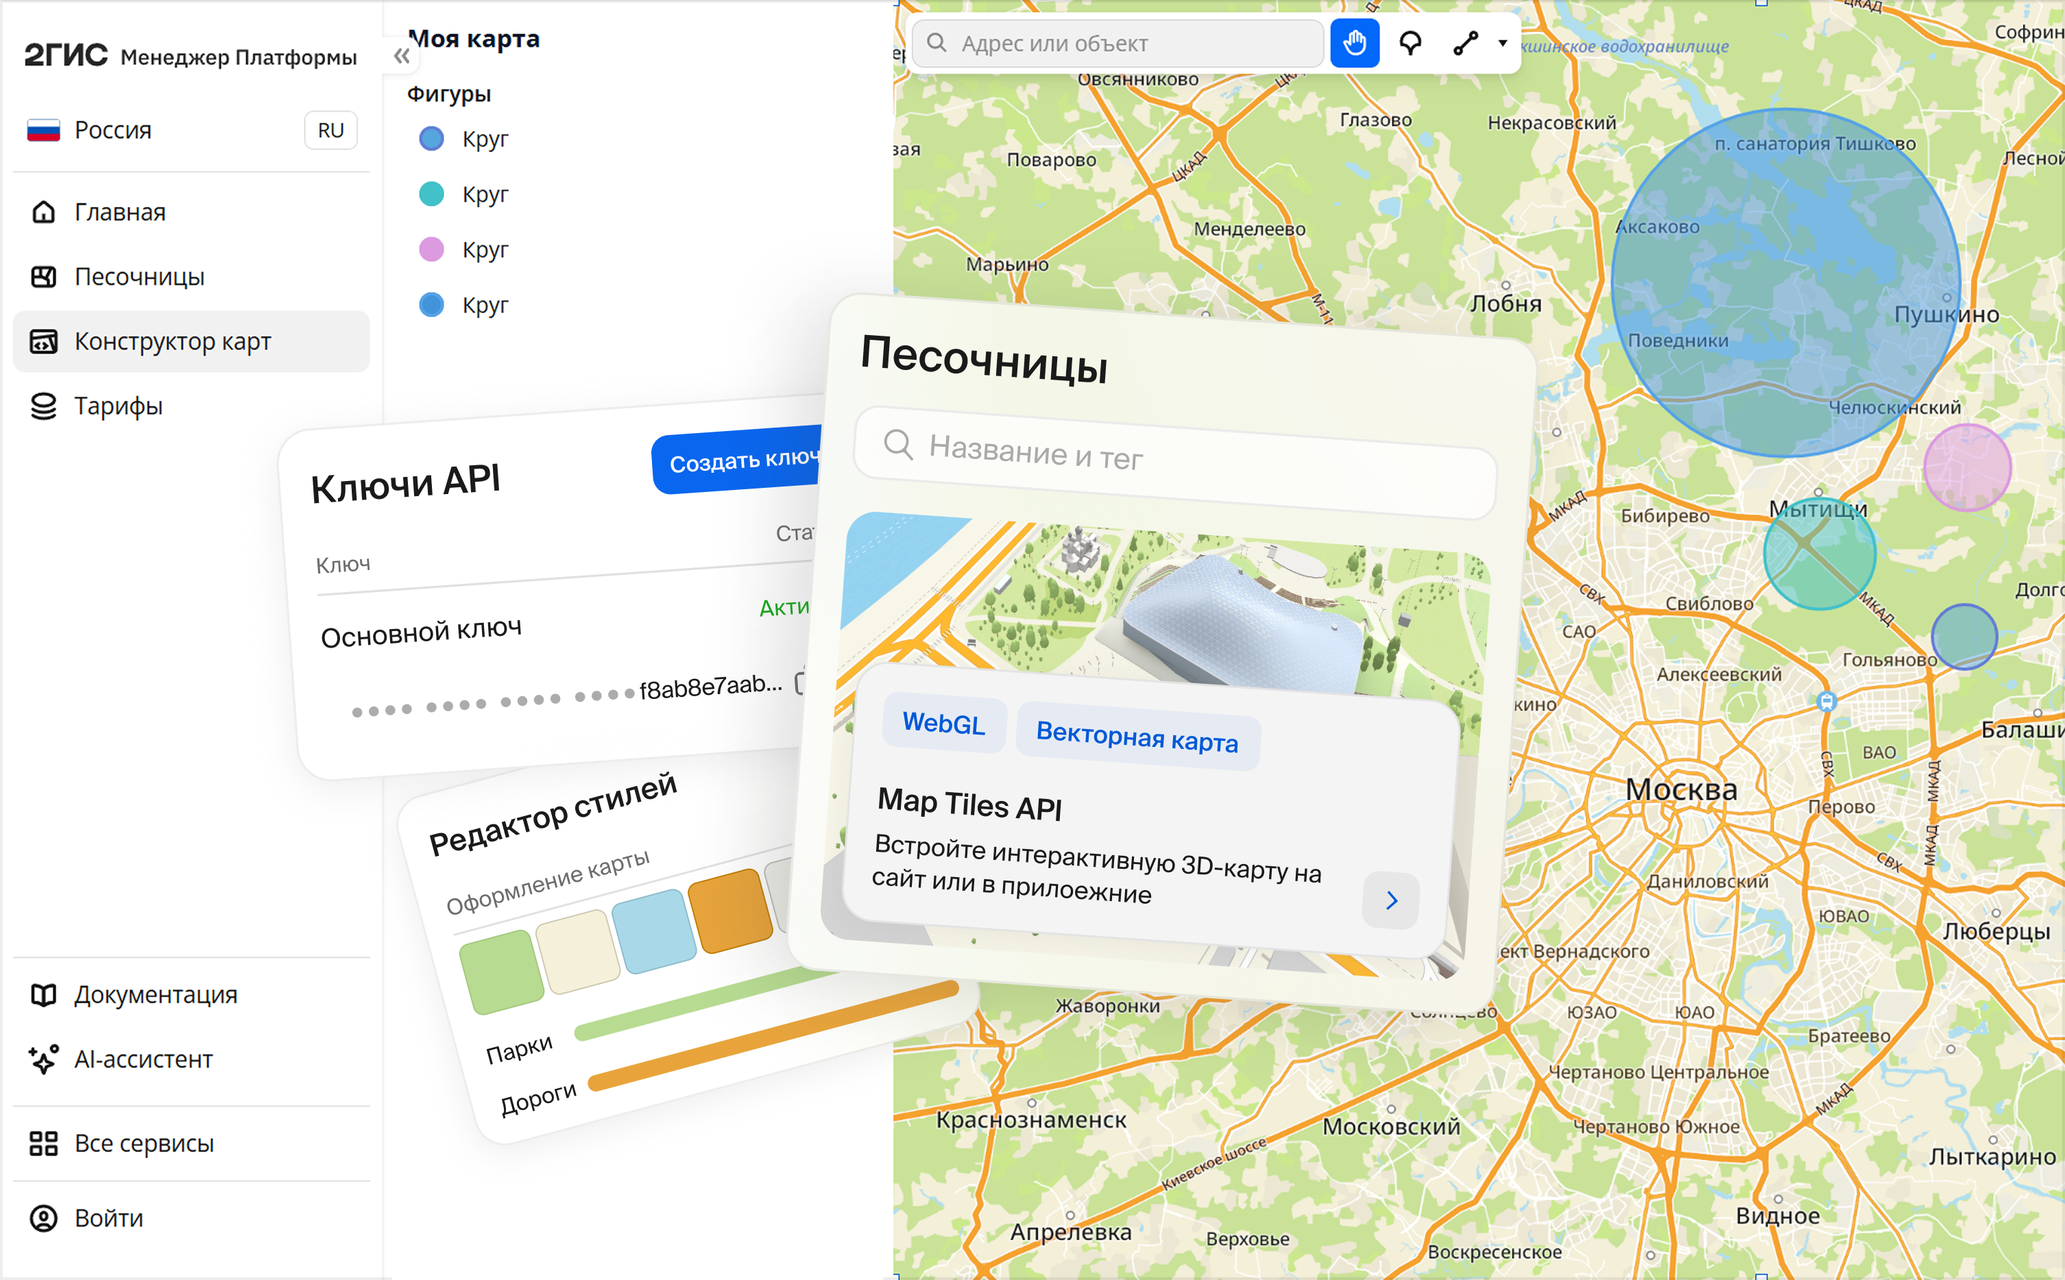
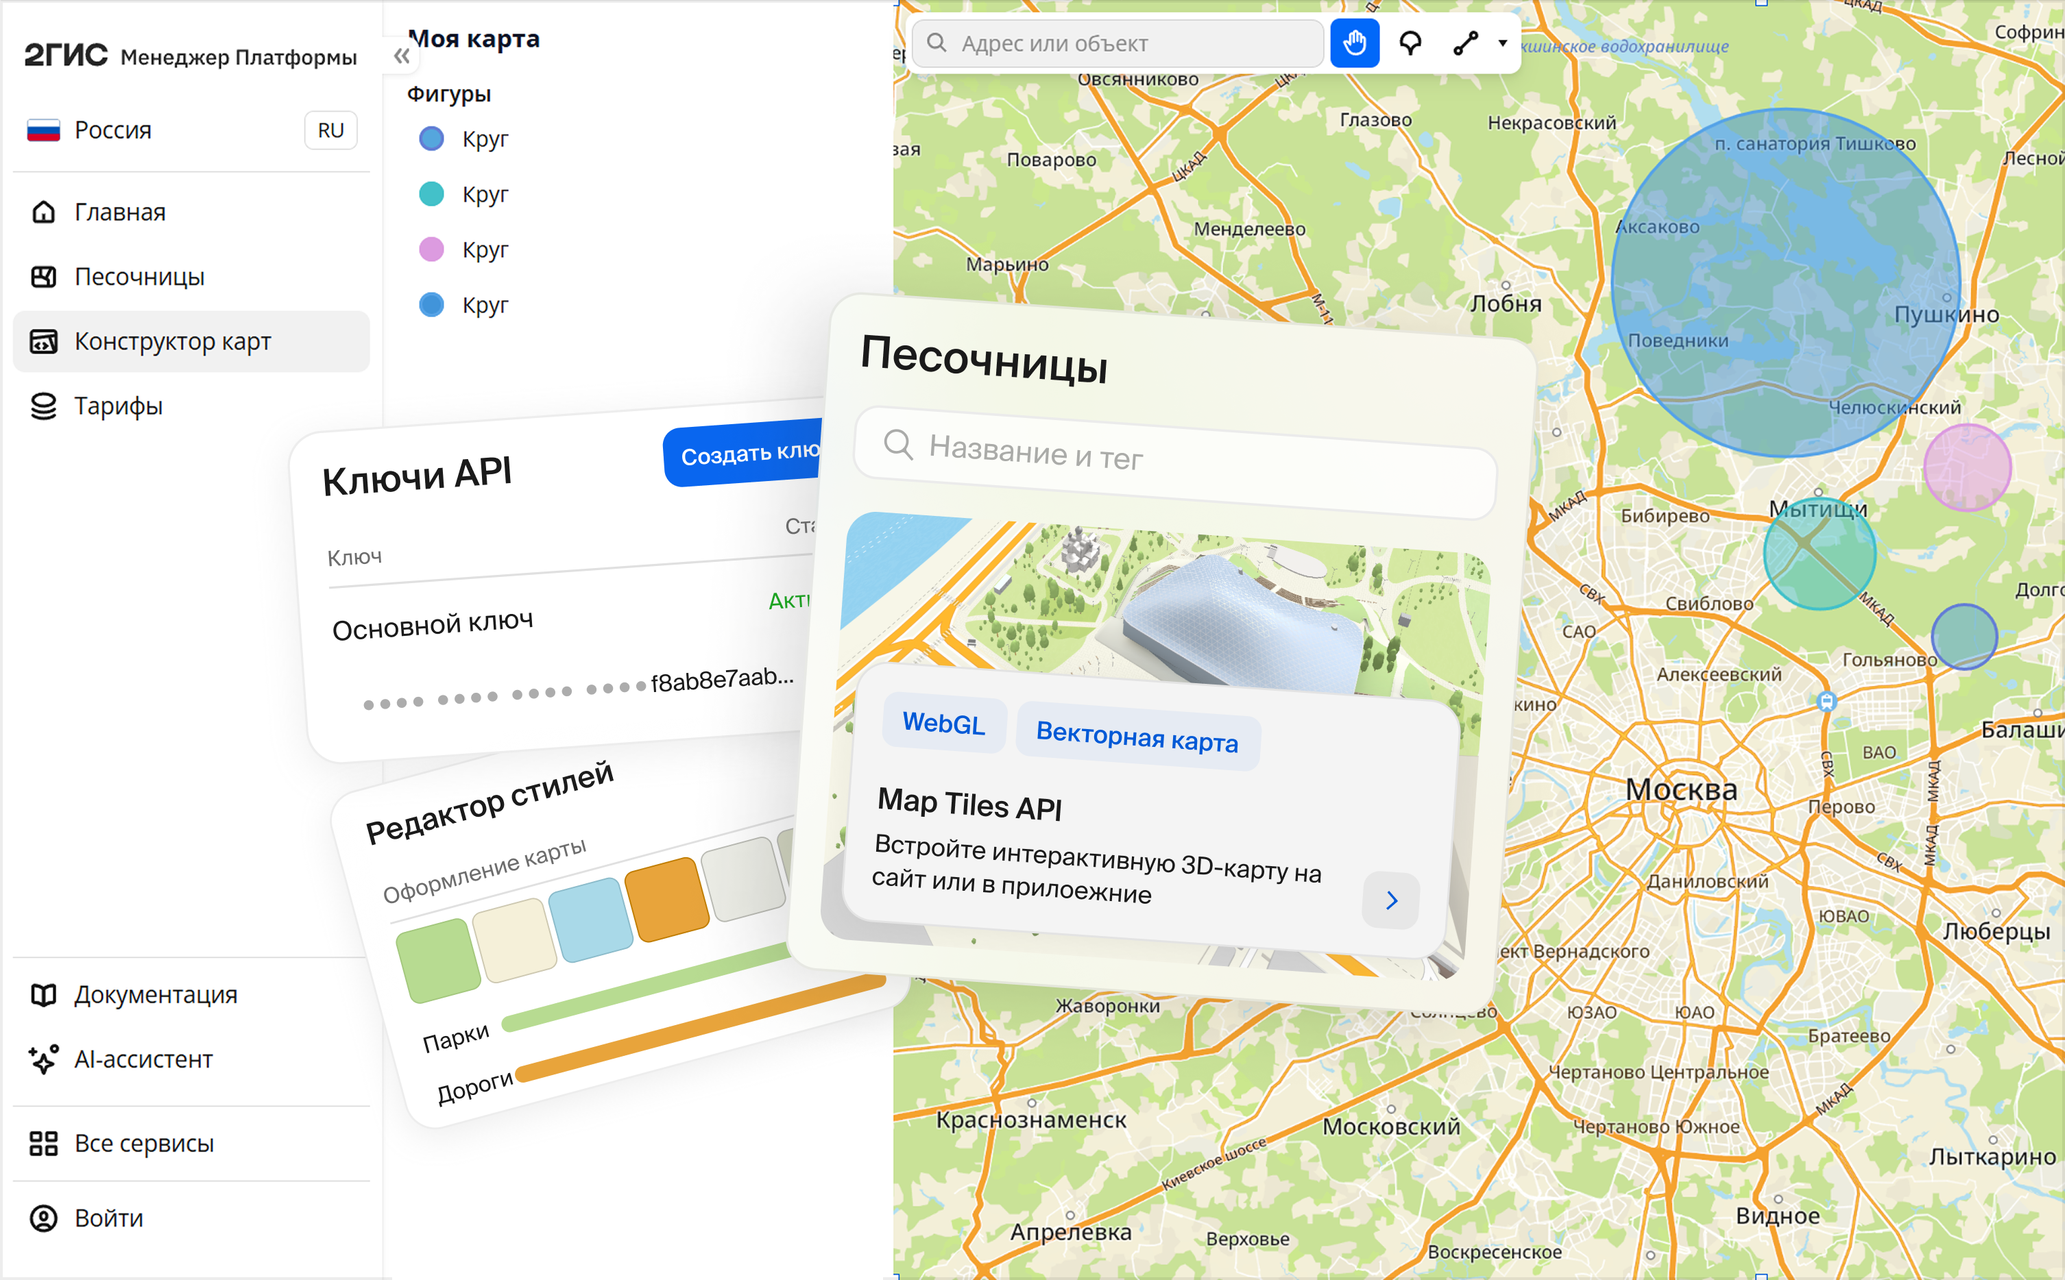
Update technical demonstration mobile layout and imagery

diff --git a/landing-prototype/content/map-constructor.ts b/landing-prototype/content/map-constructor.ts
@@ -72,13 +72,14 @@ export const intermediateCta: IntermediateCtaProps = {
 };
 
 export const technicalDemonstration: TechnicalDemonstrationProps = {
-  title: "Карты, ключи и стили в одном кабинете",
-  description: "В Менеджере Платформы 2ГИС собраны все инструменты: конструктор карт, редактор стилей, управление ключами и статистика.",
+  title: "Один кабинет для конструктора карт, стилей и API-ключей",
+  description: "В Менеджере Платформы 2ГИС собраны все инструменты: конструктор карт, редактор стилей, управление ключами и статистика",
   action: { label: "Получить демо-ключ", href: "https://platform.2gis.ru/" },
   variant: "framed",
   glowSrc: "/images/technical-demonstration/Glow (2).png",
   image: {
     desktop: "/images/technical-demonstration/API key_desktop.png",
+    mobile: "/images/technical-demonstration/API key_mobile.png",
     alt: "Менеджер Платформы с настройками ключей API, редактором стилей и картой",
   },
 };

diff --git a/landing-prototype/components/technical-demonstration/TechnicalDemonstration.tsx b/landing-prototype/components/technical-demonstration/TechnicalDemonstration.tsx
@@ -33,7 +33,7 @@ export function TechnicalDemonstration({
   const awaitingMobile = isFramed && Boolean(image) && !image?.mobile;
   const visual = image ? (
     <picture>
-      {image.mobile && <source media="(max-width: 699px)" srcSet={publicAsset(image.mobile)} />}
+      {image.mobile && <source media="(max-width: 699px)" srcSet={encodeURI(publicAsset(image.mobile))} />}
       <img src={publicAsset(image.desktop)} alt={image.alt} />
     </picture>
   ) : (

diff --git a/landing-prototype/components/technical-demonstration/TechnicalDemonstration.module.css b/landing-prototype/components/technical-demonstration/TechnicalDemonstration.module.css
@@ -179,7 +179,7 @@
   .emptyMedia { min-height: 240px; }
   .placeholder { min-height: 240px; }
   .showcase { aspect-ratio: 303 / 239; }
-  .framed { aspect-ratio: 343 / 325; }
+  .framed { aspect-ratio: 303 / 320; margin-top: 36px; }
   .glowingCard::before {
     background-size: 190% auto;
     background-position: center 68%;

diff --git a/specs/technical-demonstration-spec.md b/specs/technical-demonstration-spec.md
@@ -20,7 +20,9 @@
 | `glowSrc?: string` | Отдельное изображение свечения позади содержимого карточки в варианте `framed`. |
 | `image?: { desktop: string; mobile?: string; alt: string; layout?: "showcase"; ambientGlow?: string }` | Подготовленное изображение. `mobile` — отдельная мобильная композиция. `layout` и `ambientGlow` применяются только к прежнему варианту `showcase`. |
 
-Текущие файлы Конструктора карт: `API key_desktop.png` для десктопа и `Glow (2).png` для свечения, оба в `landing-prototype/public/images/technical-demonstration/`. Кнопка «Получить демо-ключ» ведёт на `https://platform.2gis.ru/`. Мобильный файл ещё не предоставлен; пока вместо него показывается плейсхолдер.
+Текущий H2 на всех экранах: «Один кабинет для конструктора карт, стилей и API-ключей». Описание: «В Менеджере Платформы 2ГИС собраны все инструменты: конструктор карт, редактор стилей, управление ключами и статистика». Кнопка «Получить демо-ключ» ведёт на `https://platform.2gis.ru/`.
+
+Текущие файлы Конструктора карт: `API key_desktop.png` для десктопа, `API key_mobile.png` для мобильного экрана и `Glow (2).png` для свечения, все в `landing-prototype/public/images/technical-demonstration/`. Существующий `image_mobile.png` относится к прежней композиции `showcase`.
 
 ## Геометрия и типографика
 
@@ -34,7 +36,7 @@
 | Контейнер H2 | Правое внутреннее поле 160 px при ширине от 900 px | Без правого внутреннего поля |
 | Описание и кнопка | В одной строке от 900 px, горизонтальный промежуток 64 px, верхние края совпадают | Кнопка сразу после описания, вертикальный промежуток 24 px |
 | Кнопка | Secondary; высота 56 px, радиус 12 px, шрифт medium 16/24 px | Те же размеры, занимает ширину контента |
-| Текстовый блок → рама | 48 px от нижнего края всей строки с описанием и кнопкой | 48 px от нижнего края кнопки |
+| Текстовый блок → рама | 48 px от нижнего края всей строки с описанием и кнопкой | 36 px от нижнего края кнопки |
 
 На ширинах 700–899 px кнопка также переносится под описание с промежутком 24 px. Высота карточки определяется содержимым и не фиксируется. Текст и рама начинаются на одной левой линии. Рама доходит до нижней границы карточки.
 
@@ -44,9 +46,9 @@
 
 При ширине карточки 1168 px рама занимает 1072 × 661 px. Её полупрозрачная окантовка — `rgba(255,255,255,0.12)` с `backdrop-filter: blur(40px)`. Тени `box-shadow` нет. Окантовка имеет толщину 12 px сверху и по бокам, внешний верхний радиус 32 px; внутренний слот — 1048 × 649 px с верхним радиусом 20 px. Снизу нет окантовки и скруглений.
 
-На планшете рама сужается с сохранением пропорции 1072:661. На мобильном её пропорция 343:325, толщина окантовки 5 px сверху и по бокам, внешний верхний радиус 9 px, внутренний 6 px. Низ всегда прямой и совпадает с нижней границей подложки.
+На планшете рама сужается с сохранением пропорции 1072:661. На мобильном при ширине экрана 375 px подложка имеет ширину 343 px, её горизонтальные поля — по 20 px, а внешняя рама — **303 × 320 px**. Рама адаптируется по ширине с пропорцией 303:320: например, при экране 390 px её размер — 318 × 336 px. Толщина окантовки — 5 px сверху и по бокам, внешний верхний радиус 9 px, внутренний 6 px. Низ всегда прямой и совпадает с нижней границей подложки.
 
-Изображение заполняет слот через `object-fit: cover`. Текущий десктопный файл 3012 × 1868 px почти соответствует пропорции слота 1048:649; расхождение менее 0,2%, поэтому кадрирование минимально. Файл другой пропорции может кадрироваться: для сохранения композиции нужно подготовить его под слот, а при необходимости дать отдельный `image.mobile`. Когда мобильный файл появится, положить его в ту же папку и добавить путь в `image.mobile`. `alt` кратко описывает смысл визуала; для чисто декоративного файла допустимо `alt: ""`.
+Изображение заполняет слот через `object-fit: cover`. Текущий десктопный файл 3012 × 1868 px почти соответствует пропорции слота 1048:649; расхождение менее 0,2%, поэтому кадрирование минимально. Мобильный файл — 1212 × 1280 px; при ширине экрана 375 px слот имеет размер 293 × 315 px. Файл другой пропорции может кадрироваться: для сохранения композиции нужно подготовить его под слот и при необходимости задать отдельный `image.mobile`. `alt` кратко описывает смысл визуала; для чисто декоративного файла допустимо `alt: ""`.
 
 ## Свечение
 
@@ -60,4 +62,4 @@
 
 ## Проверка
 
-`landing-prototype/check-technical-demonstration.mjs` проверяет блок на общем лендинге при ширинах 1440, 1024, 768, 390 и 375 px: отступы, типографику описания, кнопку, геометрию рамы, файл свечения, десктопный визуал, мобильный плейсхолдер и отсутствие горизонтальной прокрутки. Снимки находятся в `landing-prototype/preview-checks/`. После загрузки мобильной картинки нужно дополнительно проверить её кадрирование и читаемость. Production-сборка: `pnpm build`.
+`landing-prototype/check-technical-demonstration.mjs` проверяет блок на общем лендинге при ширинах 1440, 1024, 768, 390 и 375 px: отступы, типографику описания, кнопку, геометрию рамы, файл свечения, десктопный и мобильный визуалы и отсутствие горизонтальной прокрутки. Снимки находятся в `landing-prototype/preview-checks/`. Production-сборка: `pnpm build`.

diff --git a/landing-prototype/public/images/technical-demonstration/README.md b/landing-prototype/public/images/technical-demonstration/README.md
@@ -5,12 +5,12 @@
 ```ts
 image: {
   desktop: "/images/technical-demonstration/API key_desktop.png",
-  mobile: "/images/technical-demonstration/новое-изображение-mobile.png", // если есть
+  mobile: "/images/technical-demonstration/API key_mobile.png",
   alt: "Описание изображения",
 },
 ```
 
-На широком экране внутренний слот — 1048 × 649 px. Текущий десктопный файл — 3012 × 1868 px, почти той же пропорции; кадрирование по высоте менее 0,2%. Изображение заполняет слот с `object-fit: cover`: другой формат может обрезаться. Мобильный файл пока не загружен, поэтому на телефоне в раме показывается плейсхолдер. После загрузки мобильного файла добавьте его путь в `mobile`. Рама: 12 px сверху и по бокам на десктопе, 5 px на мобильном, без нижнего борта и нижних скруглений.
+На широком экране внутренний слот — 1048 × 649 px. Текущий десктопный файл — 3012 × 1868 px, почти той же пропорции; кадрирование по высоте менее 0,2%. Мобильный файл — 1212 × 1280 px; при ширине экрана 375 px внешняя рама — 303 × 320 px, внутренний слот — 293 × 315 px. Изображение заполняет слот с `object-fit: cover`: другой формат может обрезаться. Рама: 12 px сверху и по бокам на десктопе, 5 px на мобильном, без нижнего борта и нижних скруглений.
 
 `Glow (2).png` подключён в `content/map-constructor.ts` через `glowSrc` как отдельный приглушённый слой позади рамы. Он не входит в файл изображения и не должен быть запечён в новый мобильный ассет.
 
